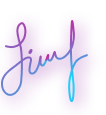
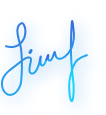
fixes content

Changed region(s): [[0.0, 0.1565, 0.8491, 0.8348], [0.7075, 0.7304, 0.7358, 0.8087]]

diff --git a/components/pages/home-shared/gradients.module.css b/components/pages/home-shared/gradients.module.css
@@ -1,12 +1,12 @@
 .benchmarkRhonix {
-  background: linear-gradient(288.43deg, #ff1e56 28.29%, #9c51a1 78.78%);
-  box-shadow: 0px 0px 16px #f02662;
+  background: linear-gradient(288.43deg, #4068a5  28.29%, #83bbd4 78.78%);
+  box-shadow: none;
   :global(.light) & {
     background: linear-gradient(
       268.86deg,
-      #ff1e56 -5.68%,
-      #d67fdc 107.63%,
-      #9c51a1 107.64%
+      #1efff5 -5.68%,
+      #5c68bf 107.63%,
+      #84ffef 107.64%
     );
     box-shadow: none;
   }
@@ -184,8 +184,8 @@
   background: conic-gradient(
     from 180deg at 50% 50%,
     #2a8af6 0deg,
-    #a853ba 180deg,
-    #e92a67 360deg
+    #36e1ff 180deg,
+    #225cf1 360deg
   );
 }
 
